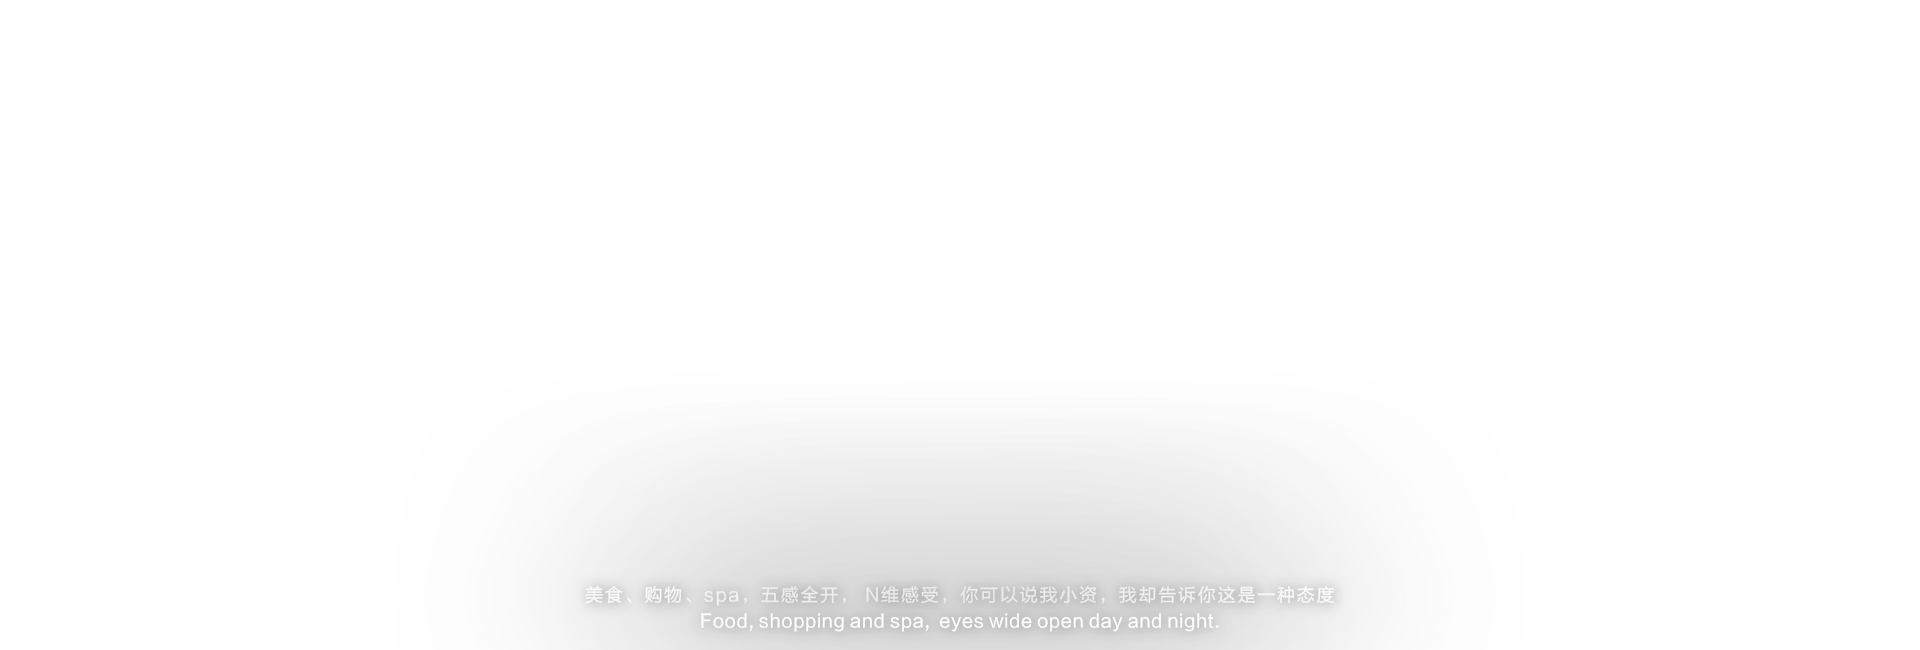
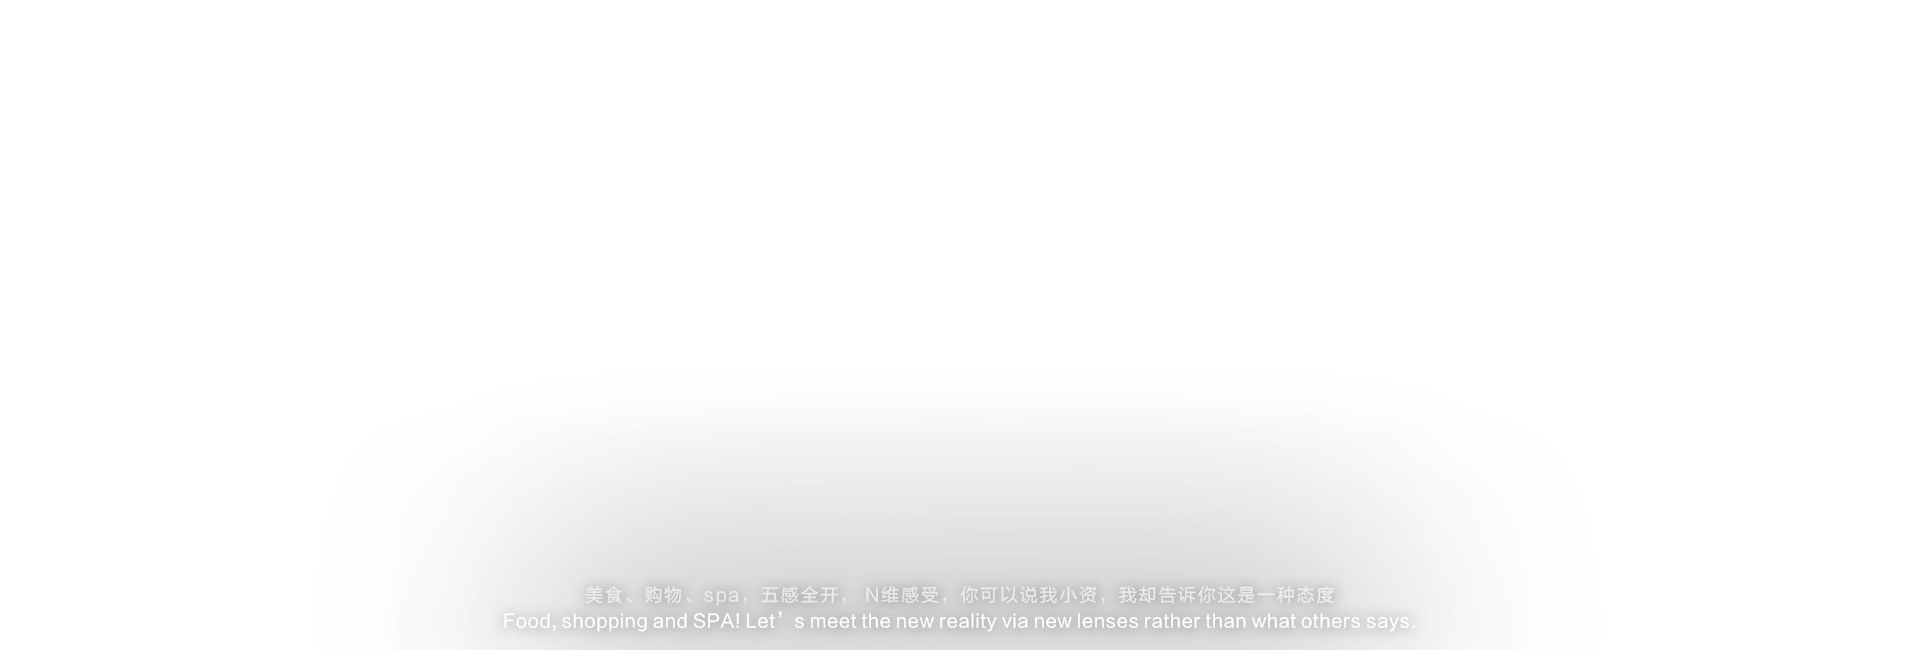
修改产品详情页图片便宜位置

Changed region(s): [[0.25, 0.9231, 0.75, 0.9846]]

diff --git a/真旅行移动端/插件-带样式.html b/真旅行移动端/插件-带样式.html
@@ -139,18 +139,24 @@
         		title: "请选择证件类型",
         		scrollId: "cardTypeWrapper",
         		data: [{
-        			name: "身份证"
+        			name: "身份证",
+                    id: 1
         		}, {
-        			name: "护照"
+        			name: "护照",
+                    id: 2
         		}, {
-        			name: "港澳通行证"
+        			name: "港澳通行证",
+                    id: 3
         		}, {
-        			name: "士官证"
+        			name: "士官证",
+                    id: 4
         		}, {
-        			name: "其他"
+        			name: "其他",
+                    id: 5
         		}],
         		currentData: {
-        			name: "士官证"
+        			name: "士官证",
+                    id: 4
         		},
         		callback: function() {
         			//  可绑定弹窗上元素的事件操作

diff --git a/真旅行移动端/公共样式.html b/真旅行移动端/公共样式.html
@@ -48,6 +48,16 @@
 				<span>女</span>
 			</label>
 		</div>
+		
+		<a href="#alert-dialog" data-rel="popup">报错提示弹窗</a>
+
+		<div class="ui-content" data-role="popup" id="alert-dialog" data-theme="a" data-overlay-theme="b"  data-transition="pop" data-position-to="window">
+	        <p class="dlg-cnt">验证码获取失败,请重新获取</p>
+	        <div class="dlg-foot">
+	            <a class="btn-confirm" data-role="none" href="javascript:void(0);" data-rel="back">好的</a>
+	        </div>
+	    </div>
+
 	</div>
 
 <script type="text/javascript">

diff --git a/css/client/productInfo.css b/css/client/productInfo.css
@@ -42,12 +42,14 @@
     float: right;
     position: relative;
     right: 50%;
-    top: -340px;
+    /*top: -340px;*/
+    top: -450px;   /* 偏移至图片顶部开始显示（默认有50px的显示高度）  */
 }
 .productDetailBanner .pro-detail-img img {
     position: relative;
-    top: -600px;
+    /*top: -600px;*/
     right: -50%;
+    top: -300px;  /* 距离图片顶部300px开始显示内容 */
 }
 .productDetailModel .themeContent{    
     position: absolute;
